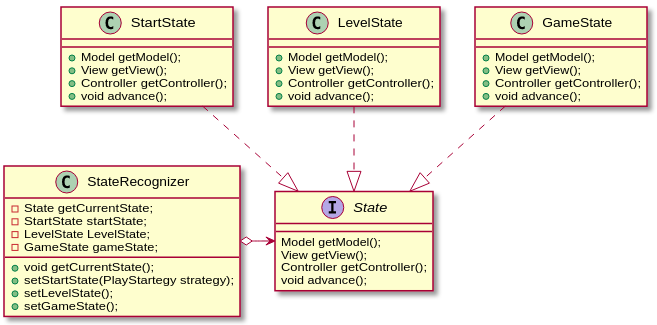
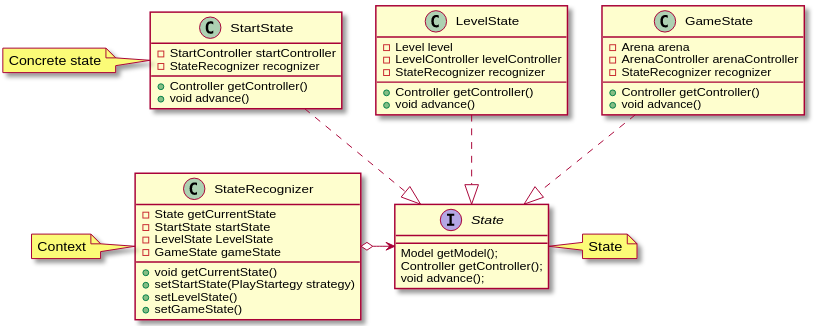
State refactoring and update on report

diff --git a/src/test/java/com/g13/controller/menus/StartControllerTest.java b/src/test/java/com/g13/controller/menus/StartControllerTest.java
@@ -1,14 +1,15 @@
 package com.g13.controller.menus;
 
 import com.g13.controller.state.StateRecognizer;
-import com.g13.model.menus.Level;
 import com.g13.model.menus.Start;
-import com.g13.view.menus.LevelViewer;
 import com.g13.view.menus.StartViewer;
 import net.jqwik.api.ForAll;
 import net.jqwik.api.Property;
 import net.jqwik.api.constraints.IntRange;
+import org.junit.jupiter.api.Test;
 import org.mockito.Mockito;
+
+import java.io.IOException;
 
 import static org.junit.jupiter.api.Assertions.assertEquals;
 
@@ -40,5 +41,27 @@ public class StartControllerTest {
             assertEquals(iterations, model.getSelection());
         else
             assertEquals(1, model.getSelection());
+    }
+
+    @Test
+    public void renderTest() throws IOException {
+        Start model = new Start();
+        StartViewer viewer = Mockito.mock(StartViewer.class);
+        StateRecognizer recognizer = Mockito.mock(StateRecognizer.class);
+        StartController controller = new StartController(model, viewer, recognizer);
+        Mockito.doNothing().when(viewer).draw();
+        controller.render();
+
+        Mockito.verify(viewer, Mockito.times(1)).draw();
+    }
+
+    @Test
+    public void isFinishedTest(){
+        Start model = new Start();
+        StartViewer viewer = Mockito.mock(StartViewer.class);
+        StateRecognizer recognizer = Mockito.mock(StateRecognizer.class);
+        StartController controller = new StartController(model, viewer, recognizer);
+
+        assertEquals(false, controller.isFinished());
     }
 }

diff --git a/src/test/java/com/g13/controller/state/StartStateTest.java b/src/test/java/com/g13/controller/state/StartStateTest.java
@@ -3,14 +3,12 @@ package com.g13.controller.state;
 import com.g13.controller.menus.StartController;
 import com.g13.controller.state.statefactory.StartStateFactory;
 import com.g13.model.menus.Start;
-import com.g13.view.menus.StartViewer;
 import com.googlecode.lanterna.TextColor;
 import com.googlecode.lanterna.graphics.TextGraphics;
 import com.googlecode.lanterna.screen.TerminalScreen;
 import org.junit.jupiter.api.Test;
 import org.mockito.Mockito;
 
-import java.io.IOException;
 
 import static org.junit.jupiter.api.Assertions.assertEquals;
 import static org.junit.jupiter.api.Assertions.assertTrue;
@@ -18,7 +16,7 @@ import static org.mockito.ArgumentMatchers.*;
 
 public class StartStateTest {
     @Test
-    public void startStateTest() throws IOException {
+    public void startStateTest() {
         TerminalScreen screen = Mockito.mock(TerminalScreen.class);
         TextGraphics graphics = Mockito.mock(TextGraphics.class);
 
@@ -30,8 +28,6 @@ public class StartStateTest {
         StateRecognizer recognizer = new StateRecognizer(screen);
         StartStateFactory startStateFactory = new StartStateFactory(recognizer);
         StartState state = new StartState(recognizer, startStateFactory);
-        assertTrue(state.getModel() instanceof Start);
-        assertTrue(state.getView() instanceof StartViewer);
         assertTrue(state.getController() instanceof StartController);
 
         state.advance();

diff --git a/src/test/java/com/g13/controller/state/LevelStateTest.java b/src/test/java/com/g13/controller/state/LevelStateTest.java
@@ -5,21 +5,18 @@ import static org.junit.jupiter.api.Assertions.assertTrue;
 import com.g13.controller.menus.LevelController;
 import com.g13.controller.state.statefactory.LevelStateFactory;
 import com.g13.model.menus.Level;
-import com.g13.view.menus.LevelViewer;
 import com.googlecode.lanterna.TextColor;
 import com.googlecode.lanterna.graphics.TextGraphics;
 import com.googlecode.lanterna.screen.TerminalScreen;
 import org.junit.jupiter.api.Test;
 import org.mockito.Mockito;
 
-import java.io.IOException;
-
 import static org.mockito.ArgumentMatchers.*;
 
 public class LevelStateTest {
 
     @Test
-    public void levelStateTest() throws IOException {
+    public void levelStateTest() {
         TerminalScreen screen = Mockito.mock(TerminalScreen.class);
         TextGraphics graphics = Mockito.mock(TextGraphics.class);
 
@@ -31,8 +28,6 @@ public class LevelStateTest {
         StateRecognizer recognizer = new StateRecognizer(screen);
         LevelStateFactory levelStateFactory = new LevelStateFactory(recognizer);
         LevelState state = new LevelState(recognizer, levelStateFactory);
-        assertTrue(state.getModel() instanceof Level);
-        assertTrue(state.getView() instanceof LevelViewer);
         assertTrue(state.getController() instanceof LevelController);
 
         state.advance();

diff --git a/src/test/java/com/g13/controller/menus/LevelControllerTest.java b/src/test/java/com/g13/controller/menus/LevelControllerTest.java
@@ -11,6 +11,8 @@ import net.jqwik.api.constraints.Positive;
 import org.junit.jupiter.api.Test;
 import org.mockito.Mockito;
 
+import java.io.IOException;
+
 import static org.junit.jupiter.api.Assertions.assertEquals;
 
 public class LevelControllerTest {
@@ -84,6 +86,27 @@ public class LevelControllerTest {
             assertEquals(iterations, model.getCross());
         else
             assertEquals(3, model.getCross());
+    }
+
+    @Test
+    public void renderTest() throws IOException {
+        Level model = new Level();
+        LevelViewer viewer = Mockito.mock(LevelViewer.class);
+        StateRecognizer recognizer = Mockito.mock(StateRecognizer.class);
+        LevelController controller = new LevelController(model, viewer, recognizer);
+        Mockito.doNothing().when(viewer).draw();
+        controller.render();
+
+        Mockito.verify(viewer, Mockito.times(1)).draw();
+    }
+
+    @Test
+    public void isFinishedTest(){
+        Level model = new Level();
+        LevelViewer viewer = Mockito.mock(LevelViewer.class);
+        StateRecognizer recognizer = Mockito.mock(StateRecognizer.class);
+        LevelController controller = new LevelController(model, viewer, recognizer);
+        assertEquals(false, controller.isFinished());
     }
 
     private int countUnlocked(Level model){

diff --git a/src/test/java/com/g13/controller/state/GameStateTest.java b/src/test/java/com/g13/controller/state/GameStateTest.java
@@ -7,7 +7,6 @@ import com.g13.controller.state.statefactory.GameStateFactory;
 import static org.mockito.ArgumentMatchers.*;
 
 import com.g13.model.arena.Arena;
-import com.g13.view.arena.ArenaViewer;
 import com.googlecode.lanterna.TextColor;
 import com.googlecode.lanterna.graphics.TextGraphics;
 import com.googlecode.lanterna.screen.TerminalScreen;
@@ -18,7 +17,7 @@ import java.io.IOException;
 
 public class GameStateTest {
     @Test
-    public void gameStateTest() throws IOException {
+    public void gameStateTest() {
         TerminalScreen screen = Mockito.mock(TerminalScreen.class);
         TextGraphics graphics = Mockito.mock(TextGraphics.class);
 
@@ -61,8 +60,6 @@ public class GameStateTest {
         StateRecognizer recognizer = new StateRecognizer(screen);
         GameStateFactory gameStateFactory = new GameStateFactory(recognizer);
         GameState state = new GameState(recognizer, gameStateFactory);
-        assertTrue(state.getModel() instanceof Arena);
-        assertTrue(state.getView() instanceof ArenaViewer);
         assertTrue(state.getController() instanceof ArenaController);
 
         assertTrue(!(gameStateFactory.getArena().getEnemy().getPlayStrategy() instanceof AggressivePlayStrategy));

diff --git a/src/main/java/com/g13/controller/state/GameState.java b/src/main/java/com/g13/controller/state/GameState.java
@@ -5,31 +5,17 @@ import com.g13.controller.arena.ArenaController;
 import com.g13.controller.arena.creator.ArenaCreator;
 import com.g13.controller.arena.strategies.PlayStrategy;
 import com.g13.controller.state.statefactory.GameStateFactory;
-import com.g13.model.Model;
-import com.g13.model.arena.Arena;
-import com.g13.view.View;
-import com.g13.view.arena.ArenaViewer;
 
 public class GameState implements State{
-    private Arena arena;
-    private ArenaViewer arenaViewer;
     private ArenaController arenaController;
     private StateRecognizer recognizer;
 
     public GameState(StateRecognizer recognizer, GameStateFactory factory)  {
         this.recognizer = recognizer;
-        arena = factory.getArena();
-        arenaViewer = factory.getArenaViewer();
         arenaController = factory.getArenaController();
         ArenaCreator creator = new ArenaCreator();
         creator.create(arenaController);
     }
-
-    @Override
-    public Model getModel() { return arena; }
-
-    @Override
-    public View getView() { return arenaViewer; }
 
     @Override
     public Controller getController() {return arenaController;}

diff --git a/src/main/java/com/g13/controller/state/LevelState.java b/src/main/java/com/g13/controller/state/LevelState.java
@@ -6,29 +6,18 @@ import com.g13.controller.arena.strategies.CarefulPlayStrategy;
 import com.g13.controller.arena.strategies.NormalPlayStrategy;
 import com.g13.controller.menus.LevelController;
 import com.g13.controller.state.statefactory.LevelStateFactory;
-import com.g13.model.Model;
 import com.g13.model.menus.Level;
-import com.g13.view.View;
-import com.g13.view.menus.LevelViewer;
 
 public class LevelState implements State{
     private final Level level;
-    private final LevelViewer levelViewer;
     private final LevelController levelController;
     private final StateRecognizer recognizer;
 
     public LevelState(StateRecognizer recognizer, LevelStateFactory factory){
         this.recognizer = recognizer;
         level = factory.getLevel();
-        levelViewer = factory.getLevelViewer();
         levelController = factory.getLevelController();
     }
-
-    @Override
-    public Model getModel() { return level; }
-
-    @Override
-    public View getView() { return levelViewer; }
 
     @Override
     public Controller getController() {

diff --git a/src/main/java/com/g13/controller/state/StartState.java b/src/main/java/com/g13/controller/state/StartState.java
@@ -3,29 +3,18 @@ package com.g13.controller.state;
 import com.g13.controller.Controller;
 import com.g13.controller.menus.StartController;
 import com.g13.controller.state.statefactory.StartStateFactory;
-import com.g13.model.Model;
 import com.g13.model.menus.Start;
-import com.g13.view.View;
-import com.g13.view.menus.StartViewer;
 
 public class StartState implements State{
-    private Start start;
-    private StartViewer startViewer;
+    private Start start;;
     private StartController startController;
     private StateRecognizer recognizer;
 
     public StartState(StateRecognizer recognizer, StartStateFactory factory){
         this.recognizer = recognizer;
         start = factory.getStart();
-        startViewer = factory.getStartViewer();
         startController = factory.getStartController();
     }
-
-    @Override
-    public Model getModel() { return start; }
-
-    @Override
-    public View getView() { return startViewer; }
 
     @Override
     public Controller getController() {

diff --git a/src/main/java/com/g13/controller/menus/LevelController.java b/src/main/java/com/g13/controller/menus/LevelController.java
@@ -6,12 +6,16 @@ import com.g13.model.menus.Level;
 import com.g13.model.menus.button.Stage;
 import com.g13.view.menus.LevelViewer;
 
+import java.io.IOException;
+
 public class LevelController extends MenuController implements Controller {
     private Level model;
+    private LevelViewer view;
 
     public LevelController(Level model, LevelViewer view, StateRecognizer recognizer){
         super(model, view, recognizer);
         this.model = model;
+        this.view = view;
     }
 
     @Override
@@ -31,5 +35,15 @@ public class LevelController extends MenuController implements Controller {
         model.resetCross();
         model.getStages().get(2).setUnlocked(false);
         model.getStages().get(3).setUnlocked(false);
+    }
+
+    @Override
+    public void render() throws IOException {
+        view.draw();
+    }
+
+    @Override
+    public boolean isFinished() {
+        return model.isFinished();
     }
 }

diff --git a/src/main/java/com/g13/controller/menus/StartController.java b/src/main/java/com/g13/controller/menus/StartController.java
@@ -5,12 +5,16 @@ import com.g13.controller.state.StateRecognizer;
 import com.g13.model.menus.Start;
 import com.g13.view.menus.StartViewer;
 
+import java.io.IOException;
+
 public class StartController extends MenuController implements Controller {
     private Start model;
+    private StartViewer view;
 
     public StartController(Start model, StartViewer view, StateRecognizer recognizer){
         super(model, view, recognizer);
         this.model = model;
+        this.view = view;
     }
 
     @Override
@@ -23,5 +27,15 @@ public class StartController extends MenuController implements Controller {
     public void moveUp() {
         if (model.getSelection() > 0)
             model.selectionMoveUp();
+    }
+
+    @Override
+    public void render() throws IOException {
+        view.draw();
+    }
+
+    @Override
+    public boolean isFinished() {
+        return model.isFinished();
     }
 }

diff --git a/src/main/java/com/g13/Game.java b/src/main/java/com/g13/Game.java
@@ -8,10 +8,10 @@ import java.io.IOException;
 public class Game {
     public static void main(String[] args) throws IOException {
         StateRecognizer recognizer = new StateRecognizer(new ScreenFactory().getScreen());
-        recognizer.getCurrentState().getView().draw();
-        while(!recognizer.getCurrentState().getModel().isFinished()) {
+        recognizer.getCurrentState().getController().render();
+        while(!recognizer.getCurrentState().getController().isFinished()) {
             recognizer.getCurrentState().getController().start();
-            recognizer.getCurrentState().getView().draw();
+            recognizer.getCurrentState().getController().render();
         }
     }
 }

diff --git a/src/main/java/com/g13/controller/arena/ArenaController.java b/src/main/java/com/g13/controller/arena/ArenaController.java
@@ -72,6 +72,16 @@ public class ArenaController implements Controller {
             model.finish();
     }
 
+    @Override
+    public void render() throws IOException {
+        view.draw();
+    }
+
+    @Override
+    public boolean isFinished() {
+        return model.isFinished();
+    }
+
     public GameParticipant getPlayer() {return model.getPlayer();}
     public Enemy getEnemy() {return model.getEnemy();}
     public Arena getModel() {return model;}
